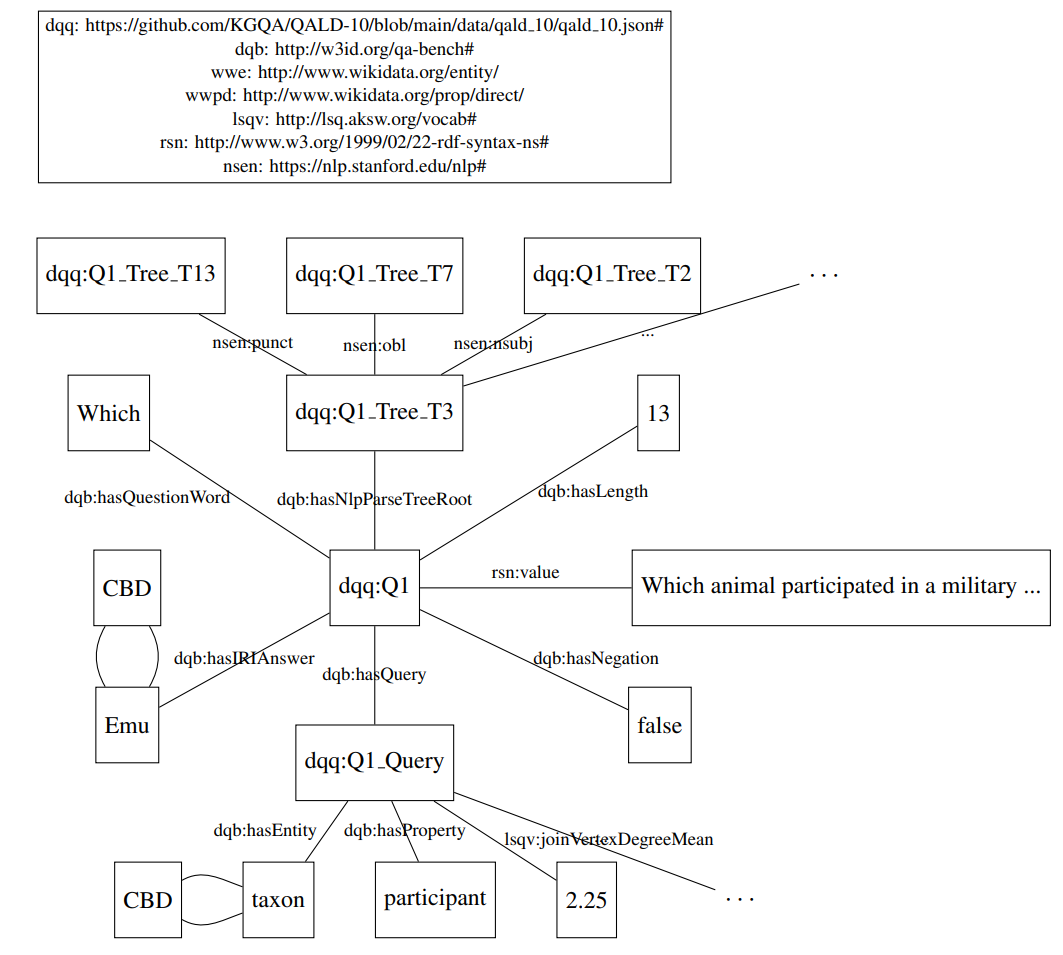
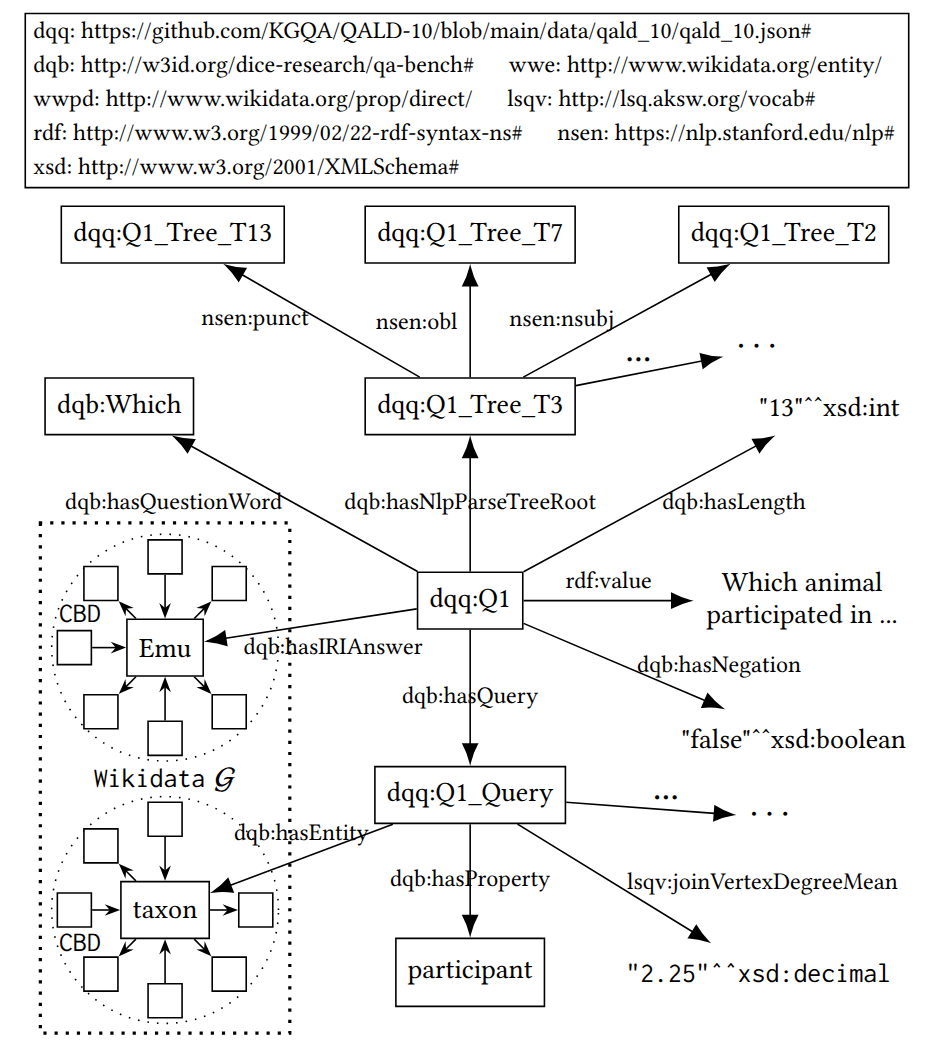
Add experiment I results figures and update README

diff --git a/README.md b/README.md
@@ -1,17 +1,18 @@
 # Explainable Benchmarking through the Lense of Concept Learning
 This repository contains 
 * The source code of our concept learning approach PruneCEL
-* Links and descriptions to rerun Experiments I and II
-* The survey and its results of Experiment III
+* Comparison between PruneCEL and other learners on family, mutagenesis and carcinogenesis datasets
+* Links and descriptions to rerun Experiments I 
+* The survey and its results of Experiment II
 * The appendix contains the full set of results of PruneCEL-RS with different quality measures.
 
 ## Table of Contents
 1. [Repository Structure](README.md#1-repository-structure)
 2. [Running Experiments](README.md#2-running-experiments)
-3. [Ren Experiment I](README.md#3-run-experiment-i)
+3. [PruneCEL compare with state-of-the-art learners](README.md#3-prunecel-compare-with-state-of-the-art-learners)
 4. [Knowledge Base Details](README.md#4-knowledge-base-details)
-5. [Run Experiment II](README.md#5-run-experiment-ii)
-6. [Details Experiment III](README.md#6-details-experiment-iii)
+5. [Run Experiment I](README.md#5-run-experiment-i)
+6. [Details Experiment II](README.md#6-details-experiment-ii)
 7. [Appendix](README.md#7-appendix)
 
 
@@ -30,7 +31,7 @@ The following directories and files can be found within this project:
 ### Experiment Setup
 
 PruneCEL uses SPARQL queries to retrieve data from the underlying knowledge base. 
-For our experiments, we used the triple store [Tentris](https://github.com/dice-group/Tentris). However, the experiments can be run with any other triple store (e.g., [Fuseki](https://jena.apache.org/documentation/fuseki2/)).
+For our experiments, we used the triple store [Tentris](https://github.com/dice-group/Tentris). However, the experiments can be run with any other triple store ([Fuseki](https://jena.apache.org/documentation/fuseki2/)).
 However, using a different triple store can lead to different results since PruneCEL moves a large amount of the work to the triple store, serving as oracle.
 
 For our experiments, we relied on the implementations of the approaches CELOE, Drill, EvoLearner and NCES from the [Ontolearn](https://github.com/dice-group/ontolearn) project. We refer to this project with respect to the execution of these approaches. During our experiments, CELOE and DRILL were set up in a similar way as PruneCEL, i.e., we provided the address of the SPARQL endpoint and both approaches used SPARQL queries to retrieve the necessary data. However, the implementations of EvoLearner and NCES do not seem to support this feature at the moment and both have to load the data into memory before they start. Note that we did not take this loading time into consideration when measuring the runtime of these approaches.
@@ -43,15 +44,25 @@ mvn clean package
 ```
 The result of the compilation and packaging process is available as `target/prune-cel-0.0.1-SNAPSHOT.jar`.
 
-## 3. Run Experiment I
+## 3. PruneCEL compare with state-of-the-art learners
 
+### Overview
+
+We compare PruneCEL to CELOE, Drill, Evolearner, and NCES on the three benchmarking datasets Family, Carcinogenesis and Mutagenesis with the learning problems created by Kouagou et al[NCES].
+We run all approaches with their default configuration and set their maximum runtime for a single learning problem to 60 seconds.
+We compare their results using the F1-measure, the concept length and their runtime.
+In this experiment, we evaluate 12 different configurations of PruneCEL. We evaluate the base version of PruneCEL and its S and R extensions as well their combination (RS).
+Each of these variants is evaluated using three different measures ℎ as part of the scoring function, namely accuracy, balanced accuracy and F1 measure. In all configurations, we set $\eta=0.1$.
 ### Data
 
 The [Ontolearn project](https://github.com/dice-group/Ontolearn) made the knowledge bases of the three benchmarking datasets for concept learning [available online](https://files.dice-research.org/projects/Ontolearn/KGs.zip). It can be downloaded using the following command:
 ```shell
 wget https://files.dice-research.org/projects/Ontolearn/KGs.zip -O ./KGs.zip && unzip KGs.zip
 ```
-The file contains the three knowledge bases of the first experiment. The knowledge base that you want to use has to be loaded into a triple store. 
+The file contains the three knowledge bases of the first experiment. The knowledge base that you want to use has to be loaded into a triple store.
+Table 2 shows the datasets' features(Family, Mutagenesis and Carcinogenesis).
+
+![example_KG](Doc/Pic/F-M-C-statistic.png)
 
 ### PruneCEL
 
@@ -87,6 +98,17 @@ The other settings should be left as they are.
 
 Thankfully, the Ontolearn project provides [examples](https://github.com/dice-group/Ontolearn/tree/develop/examples) how to execute the related work approaches (CELOE, Drill, EvoLearner and NCES) on the benchmarking datasets.
 
+### Results
+
+![example_KG](Doc/Pic/F-M-C-results.png)
+
+The results of the experiment listed in Table 4 show that PruneCEL significantly outperforms state-of-the-art concept learners on the Mutagenesis and Carcinogenesis datasets, and achieves a similar performance as the best-performing concept learner on the Family dataset (i.e., without a significant difference). We use the Student’s t-test with $\alpha=0.05$ assuming that the F1 scores of the single learning problems follow a normal distribution.
+
+With respect to the average runtime, PruneCEL is slower than the fastest state-of-the-art concept learners on the Family dataset, but especially PruneCEL-RS achieves very good runtimes on the two larger datasets.
+
+Comparing the variants of our approach, PruneCEL-R is rarely better than the base version but returns results faster on Mutagenesis and Carcinogenesis. PruneCEL-S achieves slightly higher average F1 scores and lower runtimes than the base version.
+PruneCEL-RS is often the best of our approach variants.
+
 ## 4. Knowledge Base Details
 
 In this section, we want to give some more details about the knowledge bases that we created for the 3 QA benchmarks ([QALD 9 plus](https://github.com/KGQA/QALD_9_plus) DBpedia, QALD 9 plus Wikidata and [QALD 10](https://github.com/KGQA/QALD-10/)) and the two reference knowledge graphs ([DBpedia](https://downloads.dbpedia.org/2016-10/core-i18n/en/) and [Wikidata](https://zenodo.org/records/7496690)).
@@ -105,15 +127,15 @@ We preprocessed Wikidata by replacing the property `http://www.wikidata.org/prop
 ## Knowledge Base Structure
 
 In the first step of our benchmarking framework, we generate a knowledge graph comprising information from the dataset used during the benchmarking process. Our work relies on the QALD datasets, which include three types of data for each question:
-1. **Natural language question.** Each question comes with a representation in several languages. From the English question, we extract linguistic features such as \begin{itemize}
-   * The length of the question, 
-   * The presence of negation, 
-   * The question word, and 
-   * The NLP parse tree. We employ the Stanford NLP toolkit for the extraction.
-3. **Answer(s).** Each question comes with the ground truth answers. We add these answers to the generated graph with three different properties distinguishing IRI, boolean and other literal answers.
+1. **Natural language question.** Each question comes with a representation in several languages. From the English question, we extract linguistic features such as
+   * The length of the question(dqb:hasLength),
+   * The presence of negation(dqb:hasNegation),
+   * The question word(dqb:hasQuestionWord),
+   * The NLP parse tree(dqb:hasNlpParseTreeRoot), We employ the Stanford NLP toolkit for the extraction.
+3. **Answer(s).** Each question comes with the ground truth answers. We add these answers to the generated graph with three different properties distinguishing IRI answers(dqb:hasIRIAnswer), boolean answers(dqb:hasBooleanAnswer) and other literal answers(dqb:hasLiteralAnswer).
     For each IRI listed as answer, we add its concise bounded description (CBD) extracted from the reference knowledge graph.
 4. **SPARQL query.** Each question has a SPARQL query that returns the ground truth answer when used on the reference knowledge graph. We adopt LSQ to add the following SPARQL query features to our knowledge graph:
-   * Entities and properties contained in the query (including the CBD of the entities),
+   * Entities(dqb:hasEntity), properties(dqb:hasProperty) contained in the query and the CBD of the entities,
    * Type of query,
    * The number of triple patterns,
    * The number of basic graph patterns, 
@@ -128,12 +150,12 @@ The following figure shows an example question (Question 1 from QALD10) and the 
 
 Each question is represented by an IRI in the form `dqq:QX`, where `X` denotes the question's serial number. The questions can have different answer types, represented by different properties: `dqb:hasIRIAnswer`, `dqb:hasLiteralAnswer`, and `dqb:hasBooleanAnswer`. 
 
-## 5. Run Experiment II
+## 5. Run Experiment I
 The knowledge bases for the QALD datasets can be found online at https://zenodo.org/records/14720669. Again, the chosen knowledge base has to be loaded into a triple store.
 
 ### PruneCEL
 
-The same command as mentioned before can be used. Only the paths have to be adapted and the `--time` parameter (in seconds) should be set to a higher value, e.g., `600000`.
+The same command as mentioned before can be used. Only the paths have to be adapted and the `--time` parameter (in seconds) should be set to a higher value, `600000`.
 
 ### Other Algorithms
 
@@ -152,7 +174,7 @@ The following table gives an overview of the parameters, that we use to calculat
 | Evaluation mode | None | None | None |
 | Complete command | `dicee --dataset_dir  KGs/QALD9_DB --model Keci --embedding_dim 8 --lr 0.1  --save_embeddings_as_csv --num_epochs 1  --batch_size 512 --optim Adam --scoring_technique NegSample --eval_mode None`   | `dicee --dataset_dir  KGs/QALD9_WK --model Keci --embedding_dim 8 --lr 0.1  --save_embeddings_as_csv --num_epochs 1  --batch_size 512 --optim Adam --scoring_technique NegSample --eval_mode None` | `dicee --dataset_dir  KGs/QALD10 --model Keci --embedding_dim 32 --lr 0.1  --save_embeddings_as_csv --num_epochs 1  --batch_size 50000 --optim Adam --scoring_technique NegSample --eval_mode None` |
 
-## 6. Details Experiment III
+## 6. Details Experiment II
 
 First, we chose two concepts learned on the QALD10 and QALD9+DB. We decided to use the concept learned for the learning problem for which PruneCEL had the largest difference to the baseline approach (which would be the top concept). We verbalized these two concepts using ChatGPT.
 After that, we used the verbalizations to conduct a survey as described in our paper.
@@ -245,5 +267,30 @@ The system "QAS2" can answer questions if:
 The survey and the detailed results can be found in the file `Experiment_III_Survey.pdf` within this repository.
 
 ## 7. Appendix
-The following table presents the complete set of results for PruneCEL-RS.
+The table 7 presents the complete set of results for PruneCEL-RS on experiment I.
 ![example_KG](Doc/Pic/Appendix.png)
+
+
+## 8. References
+
+[NCES] N’Dah Jean Kouagou, Stefan Heindorf, Caglar Demir, and Axel-Cyrille Ngonga Ngomo.  
+*Neural Class Expression Synthesis*. In *The Semantic Web*. Springer Nature Switzerland, Cham, 2023, pp. 209–226.  
+Available at: https://link.springer.com/chapter/10.1007/978-3-031-33443-5_13
+
+[CELOE] Jens Lehmann, Sören Auer, Lorenz Bühmann, and Sebastian Tramp.  
+*Class expression learning for ontology engineering*. Journal of Web Semantics, 9(1):71–81, 2011.  
+https://doi.org/10.1016/j.websem.2011.01.001  
+Available at: https://www.sciencedirect.com/science/article/pii/S1570826811000023
+
+[Drill] Caglar Demir and Axel-Cyrille Ngonga Ngomo.  
+*Neuro-symbolic class expression learning*.  
+In *Proceedings of the Thirty-Second International Joint Conference on Artificial Intelligence (IJCAI '23)*, Macao, P.R. China, 2023.  
+https://doi.org/10.24963/ijcai.2023/403  
+Available at: https://doi.org/10.24963/ijcai.2023/403
+
+[Evolearner] Stefan Heindorf, Lukas Blübaum, Nick Düsterhus, Till Werner, Varun Nandkumar Golani, Caglar Demir, and Axel-Cyrille Ngonga Ngomo.  
+*EvoLearner: Learning Description Logics with Evolutionary Algorithms*.  
+In *Proceedings of the ACM Web Conference 2022 (WWW '22)*, Virtual Event, Lyon, France, pp. 818–828. Association for Computing Machinery, New York, NY, USA, 2022.  
+https://doi.org/10.1145/3485447.3511925  
+Available at: https://doi.org/10.1145/3485447.3511925
+
